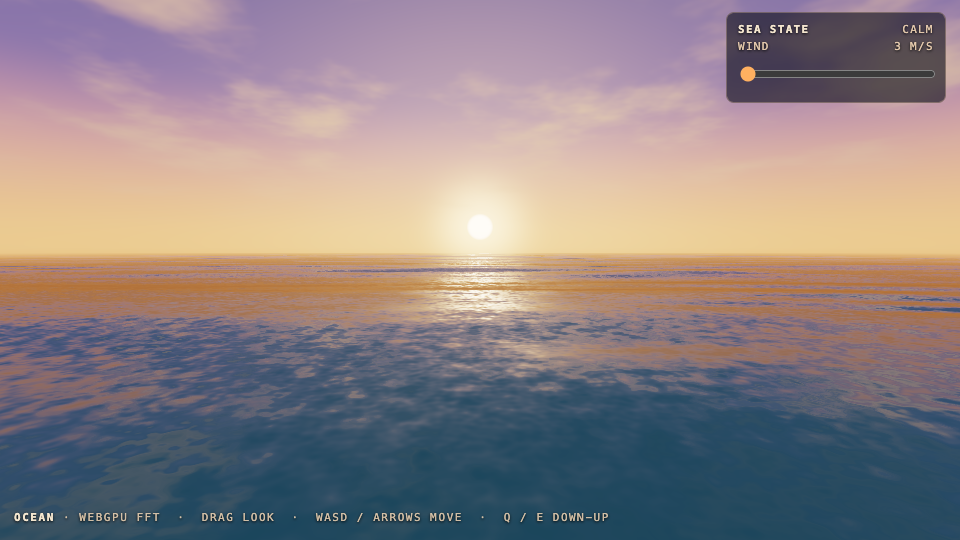
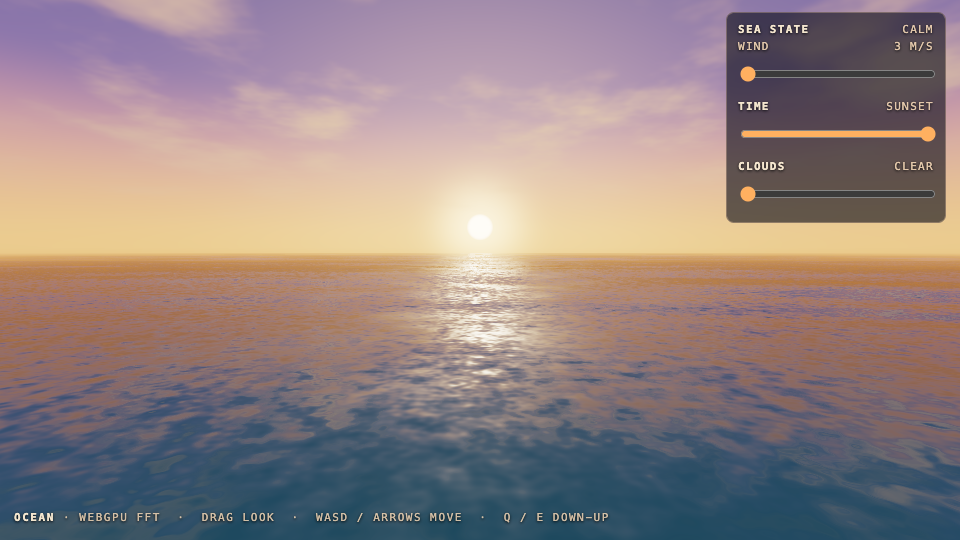
QA (mini): WIP checkpoint at the 75-minute hard cap

diff --git a/public/demos/ocean.html b/public/demos/ocean.html
@@ -48,6 +48,7 @@
   <input id="cloud" type="range" min="0" max="100" step="1" value="0" aria-label="Cloud cover, clear to overcast">
 </div>
 <div id="fatal"></div>
+<script src="ocean.stars.js"></script>
 <script type="module">
 'use strict';
 
@@ -62,6 +63,28 @@ const MOON_EL_K = [0.60, 0.10, -0.40, 0.05];
 const smooth01 = x => (x <= 0 ? 0 : x >= 1 ? 1 : x * x * (3 - 2 * x));
 const lerpKeys = (K, v) => { const k = Math.max(0, Math.min(1, v)) * 3; const i = Math.min(Math.floor(k), 2); return K[i] + (K[i + 1] - K[i]) * smooth01(k - i); };
 const WIND_AZ = 0.0;
+
+// ---- real night sky: Yale Bright Star Catalogue v5 (J2000), see ocean.stars.js ----
+// ~500 brightest stars + a faint Milky Way band, as seen from LAT_DEG N. Positions are
+// celestial (RA/Dec); they rotate with the time-of-day slider via local sidereal time,
+// so the Big Dipper sits high in the north at NIGHT and drifts west as the sky turns.
+const SKY = (typeof OCEAN_STARS !== 'undefined') ? OCEAN_STARS : { BSC: [], MILKY: [], STAR_PAL: [[1, 1, 1]], LAT_DEG: 38.6 };
+const PHI = SKY.LAT_DEG * Math.PI / 180;          // latitude -> celestial pole altitude
+const LST0 = 185;                                  // LST at tod=0: Dipper on the meridian, high in the north
+const STAR_D = (() => {
+  const out = [];
+  const mn = -1.46, mx = 3.96, sp = mx - mn;       // V-mag range of the embedded catalog
+  for (let i = 0; i < SKY.BSC.length; i++) {
+    const s = SKY.BSC[i];
+    const p = Math.max(0, Math.min(1, (mx - s[2]) / sp));   // 0 faint .. 1 brightest
+    const sizePx = 1.1 + 3.4 * Math.pow(p, 1.7);            // angular size (px radius) by brightness
+    const br = 0.5 + 2.1 * Math.pow(p, 2.2);                // additive brightness by brightness
+    const c = SKY.STAR_PAL[s[3]] || [1, 1, 1];              // spectral color O..M
+    out.push({ ra: s[0], dec: s[1], sizePx, br, c, tw: (i * 0.6180339887) % 1 });
+  }
+  for (const m of SKY.MILKY) out.push({ ra: m[0], dec: m[1], sizePx: 10.0, br: m[2] * 5.0, c: [0.56, 0.63, 0.80], tw: Math.random() });
+  return out;
+})();
 
 const OCT = [
   { L: 95,  A: 130.0, kc: 0.010, chop: 1.25 },
@@ -247,21 +270,7 @@ fn skyColor(dirIn: vec3f, t: f32) -> vec3f {
   let moonVis = g_night * (1.0 - 0.90 * cc) * (1.0 - 0.55 * st);
   sky += vec3f(0.30, 0.40, 0.62) * (pow(mmu, 14.0) * 0.12 + pow(mmu, 300.0) * 0.9) * moonVis;
   sky += vec3f(0.95, 0.97, 1.0) * smoothstep(0.99963, 0.99980, mmu) * 1.6 * moonVis;
-  if (g_night > 0.02 && dy > 0.03 && cc < 0.95) {
-    let sp = d.xz / (dy + 0.22) * 34.0;
-    let cell = floor(sp);
-    let h1 = fract(sin(dot(cell, vec2f(127.1, 311.7))) * 43758.5453);
-    let h2 = fract(sin(dot(cell, vec2f(269.5, 183.3))) * 24634.6345);
-    if (h1 > 0.948) {
-      let br = (h1 - 0.948) / 0.052;
-      let pos = (vec2f(h1, h2) - 0.5) * 0.7;
-      let sd = length(sp - cell - 0.5 - pos);
-      let tw = 0.72 + 0.28 * sin(t * (1.5 + 4.0 * h2) + h1 * 40.0);
-      sky += mix(vec3f(0.80, 0.86, 1.0), vec3f(1.0, 0.94, 0.84), h2)
-           * smoothstep(0.115, 0.02, sd) * tw * (0.45 + 0.55 * br)
-           * g_night * (1.0 - 0.9 * cc) * smoothstep(0.03, 0.22, dy) * 3.2;
-    }
-  }
+  // real stars (Yale BSC) + Milky Way are drawn by a separate billboard pass, not here
   let cloudY = max(dy, 0.004);
   let cp = d.xz / (cloudY + 0.10) * 1.35 + vec2f(t * (0.010 + 0.030 * st), t * (0.004 + 0.014 * st));
   var cld = fbm(cp, 5);
@@ -696,6 +705,71 @@ async function boot() {
     depthStencil: { format: 'depth24plus', depthCompare: 'always', depthWriteEnabled: false },
   });
 
+  // ---------- real star + Milky Way billboard pass ----------
+  // Each star is a small constant-SCREEN-size quad (pixel offset in NDC, so it does not
+  // swell with depth), additive, depth-tested so the sea occludes low stars. Positions come
+  // from the Yale BSC via local sidereal time (rotates with the tod slider).
+  const STAR_RADIUS = 900;
+  const M_STAR = `
+    struct StarU { vp: mat4x4f, radius: f32, px: f32, py: f32, time: f32, night: f32, cloud: f32, p0: f32, p1: f32 };
+    @group(0) @binding(0) var<uniform> u: StarU;
+    struct SOut { @builtin(position) pos: vec4f, @location(0) uv: vec2f, @location(1) col: vec3f, @location(2) att: f32, @location(3) tw: f32 };
+    @vertex
+    fn vs_star(@location(0) corner: vec2f, @location(1) d4: vec4f, @location(2) c4: vec4f) -> SOut {
+      let center = d4.xyz * u.radius;
+      let cc = u.vp * vec4f(center, 1.0);
+      var o: SOut;
+      o.col = c4.rgb;
+      o.tw = 0.72 + 0.28 * sin(u.time * (1.5 + 2.5 * fract(c4.w * 17.0)) + c4.w * 43.0);
+      o.att = smoothstep(0.02, 0.18, d4.y);   // fade out at the horizon (d4.y = up factor)
+      if (cc.w <= 0.0) { o.pos = vec4f(3.0, 3.0, 1.0, 1.0); o.uv = vec2f(0.0); o.att = 0.0; return o; }
+      let ndc = cc.xyz / cc.w;
+      let ox = corner.x * d4.w * (2.0 / u.px);
+      let oy = corner.y * d4.w * (2.0 / u.py);
+      o.pos = vec4f(ndc.x + ox, ndc.y + oy, ndc.z, 1.0);
+      o.uv = corner;
+      return o;
+    }
+    @fragment
+    fn fs_star(in: SOut) -> @location(0) vec4f {
+      let r = length(in.uv);
+      if (r > 1.0) { discard; }
+      let core = smoothstep(0.60, 0.0, r);
+      let fall = pow(1.0 - r, 2.0);
+      let b = in.att * in.tw * u.night * (1.0 - 0.92 * u.cloud);
+      return vec4f(in.col * (0.5 + 1.1 * core) * fall * b, 1.0);
+    }
+  `;
+  const modStar = mkMod(M_STAR);
+  const starCorner = new Float32Array([-1, -1, 1, -1, -1, 1, 1, 1]);
+  const starCornerBuf = device.createBuffer({ size: starCorner.byteLength, usage: GPUBufferUsage.VERTEX | GPUBufferUsage.COPY_DST });
+  device.queue.writeBuffer(starCornerBuf, 0, starCorner);
+  const starIdx = new Uint32Array([0, 1, 2, 2, 1, 3]);
+  const starIdxBuf = device.createBuffer({ size: starIdx.byteLength, usage: GPUBufferUsage.INDEX | GPUBufferUsage.COPY_DST });
+  device.queue.writeBuffer(starIdxBuf, 0, starIdx);
+  const starInstBuf = device.createBuffer({ size: Math.max(1, STAR_D.length) * 8 * 4, usage: GPUBufferUsage.VERTEX | GPUBufferUsage.COPY_DST });
+  const starInstArr = new Float32Array(Math.max(1, STAR_D.length) * 8);
+  const uStar = device.createBuffer({ size: 96, usage: U });
+  const starLayout = device.createBindGroupLayout({ entries: [{ binding: 0, visibility: GPUShaderStage.VERTEX | GPUShaderStage.FRAGMENT, buffer: { type: 'uniform' } }] });
+  const bgStar = device.createBindGroup({ layout: starLayout, entries: [{ binding: 0, resource: { buffer: uStar } }] });
+  const starPipeline = device.createRenderPipeline({
+    layout: device.createPipelineLayout({ bindGroupLayouts: [starLayout] }),
+    vertex: { module: modStar, entryPoint: 'vs_star', buffers: [
+      { arrayStride: 8, attributes: [{ shaderLocation: 0, offset: 0, format: 'float32x2' }] },
+      { arrayStride: 32, stepMode: 'instance', attributes: [
+        { shaderLocation: 1, offset: 0, format: 'float32x4' },
+        { shaderLocation: 2, offset: 16, format: 'float32x4' },
+      ] },
+    ] },
+    fragment: { module: modStar, entryPoint: 'fs_star', targets: [{ format, blend: {
+      color: { srcFactor: 'one', dstFactor: 'one', operation: 'add' },
+      alpha: { srcFactor: 'one', dstFactor: 'one', operation: 'add' },
+    } }] },
+    primitive: { topology: 'triangle-list' },
+    depthStencil: { format: 'depth24plus', depthCompare: 'less', depthWriteEnabled: true },
+  });
+  let starInstCount = 0, curNight = 1;
+
   // ---------- matrix helpers ----------
   function lookAt(eye, f, up) {
     const z = norm3([eye[0] - f[0], eye[1] - f[1], eye[2] - f[2]]);
@@ -825,6 +899,32 @@ async function boot() {
       moonDir[0], moonDir[1], moonDir[2], 0,
     ]));
 
+    // real stars: rebuild this frame's billboards from the catalog at LST(tod)
+    {
+      const lst = (LST0 + tod * 180) * Math.PI / 180;
+      const sinP = Math.sin(PHI), cosP = Math.cos(PHI);
+      let n = 0;
+      for (const st of STAR_D) {
+        const a = st.ra * Math.PI / 180, d = st.dec * Math.PI / 180, H = lst - a;
+        const cD = Math.cos(d);
+        const E = -cD * Math.sin(H);
+        const N = Math.sin(d) * cosP - cD * sinP * Math.cos(H);
+        const Uu = Math.sin(d) * sinP + cD * cosP * Math.cos(H);
+        if (Uu <= 0.0) continue;                 // below the horizon
+        const inv = 1 / Math.hypot(E, N, Uu);
+        const o = n * 8;
+        starInstArr[o] = E * inv; starInstArr[o + 1] = Uu * inv; starInstArr[o + 2] = N * inv; starInstArr[o + 3] = st.sizePx;
+        starInstArr[o + 4] = st.c[0]; starInstArr[o + 5] = st.c[1]; starInstArr[o + 6] = st.c[2]; starInstArr[o + 7] = st.tw;
+        n++;
+      }
+      starInstCount = n;
+      if (n) device.queue.writeBuffer(starInstBuf, 0, starInstArr.subarray(0, n * 8));
+      curNight = nightness;
+      device.queue.writeBuffer(uStar, 0, new Float32Array([
+        ...vp, STAR_RADIUS, vw, vh, t, nightness, cloud, 0, 0,
+      ]));
+    }
+
     const enc = device.createCommandEncoder();
     if (refilling) {
       for (let i = 0; i < 2; i++) {
@@ -857,6 +957,12 @@ async function boot() {
     }], depthStencilAttachment: { view: depthView, loadOp: 'clear', storeOp: 'discard', depthLoadOp: 'clear', depthStoreOp: 'discard', depthClearValue: 1.0 } });
     rp.setPipeline(skyPipeline); rp.setBindGroup(0, bgSky);
     rp.setVertexBuffer(0, skyVBuf); rp.draw(3);
+    if (starInstCount > 0) {
+      rp.setPipeline(starPipeline); rp.setBindGroup(0, bgStar);
+      rp.setVertexBuffer(0, starCornerBuf); rp.setVertexBuffer(1, starInstBuf);
+      rp.setIndexBuffer(starIdxBuf, 'uint32');
+      rp.drawIndexed(starIdx.length, starInstCount, 0, 0);
+    }
     rp.setPipeline(seaPipeline); rp.setBindGroup(0, bgSea);
     rp.setVertexBuffer(0, vtxBuf); rp.setIndexBuffer(idxBuf, 'uint32');
     rp.drawIndexed(gridIdx.length);
@@ -911,6 +1017,36 @@ async function boot() {
       let m = 0; for (const v of a) m += v; m /= a.length;
       let vr = 0; for (const v of a) vr += (v - m) * (v - m); vr /= a.length;
       return { mean: m, variance: vr, frames, time: t };
+    },
+    stars() {
+      const lst = (LST0 + tod * 180) * Math.PI / 180;
+      const sinP = Math.sin(PHI), cosP = Math.cos(PHI);
+      const toDir = (ra, dec) => {
+        const a = ra * Math.PI / 180, d = dec * Math.PI / 180, H = lst - a;
+        const cD = Math.cos(d);
+        const E = -cD * Math.sin(H);
+        const N = Math.sin(d) * cosP - cD * sinP * Math.cos(H);
+        const Uu = Math.sin(d) * sinP + cD * cosP * Math.cos(H);
+        const inv = 1 / Math.hypot(E, N, Uu);
+        const alt = Math.asin(Uu) * 180 / Math.PI;
+        const az = (Math.atan2(E, N) * 180 / Math.PI + 360) % 360;
+        return { dir: [E * inv, Uu * inv, N * inv], alt: +alt.toFixed(2), az: +az.toFixed(2), above: Uu > 0 };
+      };
+      const find = (ra, dec) => { let best = null, bd = 1e9; for (const s of SKY.BSC) { const dx = s[0] - ra, dy = s[1] - dec, dd = dx * dx + dy * dy; if (dd < bd) { bd = dd; best = s; } } return best; };
+      const wrap = (ra, dec) => { const s = find(ra, dec); return s ? { ra: s[0], dec: s[1], mag: s[2], ...toDir(s[0], s[1]) } : null; };
+      const named = {};
+      for (const [k, v] of Object.entries({ sirius: [101.29, -16.72], polaris: [37.95, 89.26], vega: [279.24, 38.78], arcturus: [213.92, 19.18], capella: [79.17, 46.0], canopus: [95.99, -52.7] })) named[k] = wrap(v[0], v[1]);
+      named.dipper = {};
+      for (const [k, v] of Object.entries({ dubhe: [165.93, 61.75], merak: [165.46, 56.38], phecda: [178.46, 53.69], megrez: [183.86, 57.03], alioth: [193.51, 55.96], mizar: [200.98, 54.93], alkaid: [206.89, 49.31] })) named.dipper[k] = wrap(v[0], v[1]);
+      named.orion = {};
+      for (const [k, v] of Object.entries({ betelgeuse: [88.79, 7.41], rigel: [78.63, -8.2], bellatrix: [81.28, 6.35], mintaka: [83.0, -0.3], alnilam: [84.05, -1.2], alnitak: [85.19, -1.94], saiph: [86.94, -9.67] })) named.orion[k] = wrap(v[0], v[1]);
+      return {
+        count: SKY.BSC.length, mwCount: SKY.MILKY.length, lat: SKY.LAT_DEG,
+        lstDeg: +((((lst * 180 / Math.PI) % 360) + 360) % 360).toFixed(1),
+        night: +curNight.toFixed(3), uploaded: starInstCount,
+        pole: [0, +Math.sin(PHI).toFixed(4), +Math.cos(PHI).toFixed(4)],
+        named,
+      };
     },
   };
 }

diff --git a/public/demos/ocean.stars.js b/public/demos/ocean.stars.js
@@ -12,3 +12,6 @@ const BSC = [
 const MILKY = [
   [268.1,29.61,0.06],  [265.43,26.67,0.069],  [268.31,26.46,0.091],  [268.05,25.9,0.089],  [265.26,21.58,0.051],  [272.32,23.64,0.056],  [271.26,21.37,0.081],  [272.58,20.97,0.068],  [272.57,20.23,0.086],  [274.78,18.31,0.072],  [271.21,16.55,0.054],  [276.03,16.13,0.062],  [272.24,13.54,0.048],  [276.76,12.93,0.086],  [278.27,13.31,0.056],  [279.3,11.39,0.051],  [277.26,10.2,0.078],  [275.11,6.95,0.047],  [281.03,7.26,0.061],  [281.69,6.54,0.053],  [282.62,6.22,0.06],  [279.85,2.19,0.056],  [279.71,1.19,0.061],  [283.26,1.21,0.064],  [281.58,-1.07,0.052],  [284.49,-1.24,0.07],  [285.03,-2.55,0.069],  [282.94,-4.6,0.054],  [285.98,-4.54,0.085],  [286.62,-5.8,0.066],  [283.36,-8.83,0.039],  [284.15,-10.94,0.036],  [286.57,-10.31,0.057],  [286.4,-12.31,0.046],  [289.82,-12.83,0.086],  [287.22,-15.34,0.055],  [291.64,-14.51,0.074],  [287.93,-16.95,0.048],  [293.74,-16.08,0.057],  [294.73,-17.6,0.051],  [292.31,-20.39,0.072],  [294.98,-19.67,0.065],  [296.66,-21.95,0.064],  [291.92,-24.42,0.049],  [300.16,-22.22,0.042],  [299.86,-24.6,0.054],  [299.75,-25.11,0.059],  [299.33,-28.97,0.087],  [299.84,-28.33,0.076],  [302.16,-29.65,0.066],  [302.13,-31.22,0.076],  [299.11,-33.8,0.058],  [303.19,-32.8,0.069],  [304.11,-34.93,0.094],  [305.78,-35.12,0.073],  [303.29,-38.61,0.057],  [308.06,-37.39,0.061],  [309.02,-37.4,0.052],  [310.83,-39.9,0.067],  [311.66,-41.51,0.078],  [311.94,-42.77,0.088],  [311.67,-44.26,0.061],  [311.44,-46.41,0.053],  [318.33,-43.23,0.049],  [315.5,-48.73,0.057],  [319.62,-46.89,0.066],  [321.3,-47.65,0.048],  [323.22,-47.51,0.042],  [321.91,-52.54,0.06],  [324.26,-51.1,0.076],  [324.9,-53.6,0.065],  [325.97,-54.97,0.055],  [328.87,-53.65,0.076],  [334.04,-53.43,0.054],  [332.87,-57.82,0.066],  [335.83,-59.39,0.051],  [337.93,-57.35,0.079],  [337.24,-63.01,0.05],  [341.7,-60.57,0.05],  [345.38,-60.2,0.078],  [346.02,-61.1,0.059],  [348.65,-58.62,0.051],  [353.69,-60.01,0.068],  [357.57,-64.63,0.048],  [357.13,-61.06,0.073],  [4.03,-63.68,0.062],  [1.02,-58.76,0.056],  [9.44,-66.12,0.058],  [11.34,-65.27,0.049],  [14.51,-63.48,0.084],  [16.7,-64.03,0.071],  [17.52,-61.46,0.074],  [19.13,-60.1,0.055],  [30.45,-65.12,0.051],  [26.1,-59.33,0.057],  [30.99,-62.24,0.071],  [38.83,-63.48,0.044],  [37.64,-62.58,0.061],  [33.42,-56.17,0.043],  [40.94,-58.5,0.071],  [48.03,-61.04,0.052],  [46.8,-58.73,0.081],  [45.96,-55.71,0.053],  [51.63,-56.12,0.089],  [47.3,-52.4,0.044],  [48.64,-50.47,0.039],  [56.84,-55.73,0.072],  [53.95,-51.22,0.058],  [62.83,-52.76,0.064],  [63.89,-52.97,0.063],  [64,-51.86,0.084],  [60.88,-48.05,0.06],  [62.04,-45.79,0.056],  [68.49,-47.37,0.082],  [68.67,-46.01,0.077],  [66.13,-43.8,0.054],  [70.25,-43.57,0.063],  [75.22,-44.54,0.058],  [73.78,-41.26,0.07],  [77.88,-43.82,0.059],  [78.72,-41.95,0.067],  [74.32,-36.93,0.057],  [80.6,-39.04,0.074],  [77.45,-36.53,0.051],  [79.23,-35.76,0.074],  [81.63,-34.02,0.07],  [80.19,-32.75,0.063],  [82.45,-31.23,0.066],  [85.47,-31.36,0.073],  [86.53,-30,0.084],  [87.86,-29.23,0.063],  [84.86,-27.48,0.051],  [89.43,-28.05,0.058],  [90.09,-26.26,0.065],  [87.61,-24.32,0.06],  [93.56,-24.55,0.057],  [91.83,-23.06,0.058],  [91.25,-21.02,0.089],  [91.81,-19.16,0.077],  [91.44,-17.21,0.051],  [90.63,-14.64,0.046],  [95.08,-15.83,0.083],  [91.07,-12.83,0.038],  [96.39,-13.49,0.081],  [96.9,-11.75,0.087],  [95.33,-10.99,0.071],  [97.51,-8.88,0.08],  [99.29,-9.55,0.062],  [100.32,-7.55,0.076],  [99.83,-6.3,0.087],  [101.3,-4.24,0.083],  [100.48,-3.33,0.078],  [101.47,-2.17,0.082],  [100.75,0.21,0.061],  [102.58,-0.18,0.079],  [104.42,-0.19,0.057],  [106.99,1.74,0.05],  [105.2,3.18,0.067],  [107.13,3.12,0.064],  [103.28,8.55,0.049],  [108.05,7.82,0.076],  [110.34,7.43,0.055],  [107.94,11.13,0.077],  [109.87,10.85,0.059],  [111.3,11.88,0.054],  [109.19,14.51,0.065],  [110.99,15.62,0.084],  [110.69,15.37,0.085],  [112.14,16.32,0.072],  [114.61,18.48,0.059],  [115.13,18.48,0.048],  [111.53,23.53,0.046],  [112.46,23.93,0.059],  [117.77,22.6,0.061],  [114.53,25.43,0.05],  [117.91,25.79,0.07],  [119.34,24.76,0.061],  [119.03,27.71,0.089],  [120,29.39,0.081],  [117.26,31.66,0.04],  [119.12,33.32,0.052],  [123.05,32.58,0.065],  [120.79,34.97,0.048],  [121.73,35.66,0.049],  [120.92,37.99,0.041],  [124.94,39.1,0.049],  [125.89,39.33,0.071],  [123.52,41.64,0.048],  [129.13,41.28,0.077],  [128.57,41.81,0.058],  [132.06,41.45,0.067],  [134.45,43.32,0.064],  [133.53,44.5,0.087],  [132.2,47.86,0.054],  [134.01,47.89,0.051],  [137.91,47.53,0.078],  [138.36,49.99,0.063],  [140.85,48.56,0.057],  [139.72,55.58,0.035],  [142.66,53.95,0.062],  [146.88,53.03,0.076],  [146.35,53.55,0.075],  [150.16,56.19,0.072],  [150.62,56.18,0.078],  [152.81,56.38,0.073],  [156.65,52.85,0.048],  [157.92,57.5,0.082],  [160.27,57.58,0.073],  [162.94,57.24,0.048],  [165.34,57.97,0.066],  [168.68,63.28,0.058],  [169.76,61.71,0.069],  [171.51,61.06,0.09],  [174.3,58.82,0.052],  [181.39,65.3,0.049],  [181.73,63.56,0.072],  [186.69,62.96,0.082],  [185.64,60.48,0.056],  [193.88,65.02,0.057],  [193.68,60.85,0.069],  [195.42,59.28,0.042],  [198.85,61.51,0.073],  [207.2,66.9,0.045],  [204.47,62.81,0.087],  [208.2,62.63,0.069],  [211.54,63.08,0.072],  [213.59,62.05,0.066],  [217.2,60.27,0.079],  [219.56,59.15,0.067],  [227.16,61.46,0.052],  [223.8,59.63,0.08],  [222.81,56.95,0.057],  [233.67,59.77,0.052],  [232.08,56.91,0.087],  [235.41,56.95,0.076],  [234.24,54.22,0.066],  [243.56,57.31,0.039],  [233.93,50.66,0.043],  [239.99,52.65,0.074],  [242.21,50.67,0.074],  [245.59,51.08,0.08],  [246.12,50.46,0.082],  [247.01,48.85,0.08],  [252.14,48.83,0.049],  [252.77,49.73,0.048],  [249.88,45.63,0.067],  [249.35,43.66,0.056],  [251.13,42.39,0.064],  [261.17,45.82,0.034],  [257.98,41.91,0.056],  [261.94,42.79,0.037],  [258.64,40.09,0.072],  [257.73,38.66,0.069],  [259.33,37.22,0.089],  [259.68,35.14,0.073],  [262.52,35.37,0.085],  [259.91,33.19,0.062],  [264.19,32.91,0.08],  [266.59,32.85,0.064],  [267.24,30.18,0.064],
 ];
+// Loaded as a classic <script> before ocean.html's module — expose on window so the
+// module can read it (top-level consts here are script-scoped, not global).
+if (typeof window !== 'undefined') window.OCEAN_STARS = { BSC, MILKY, STAR_PAL, LAT_DEG, STAR_SRC };
